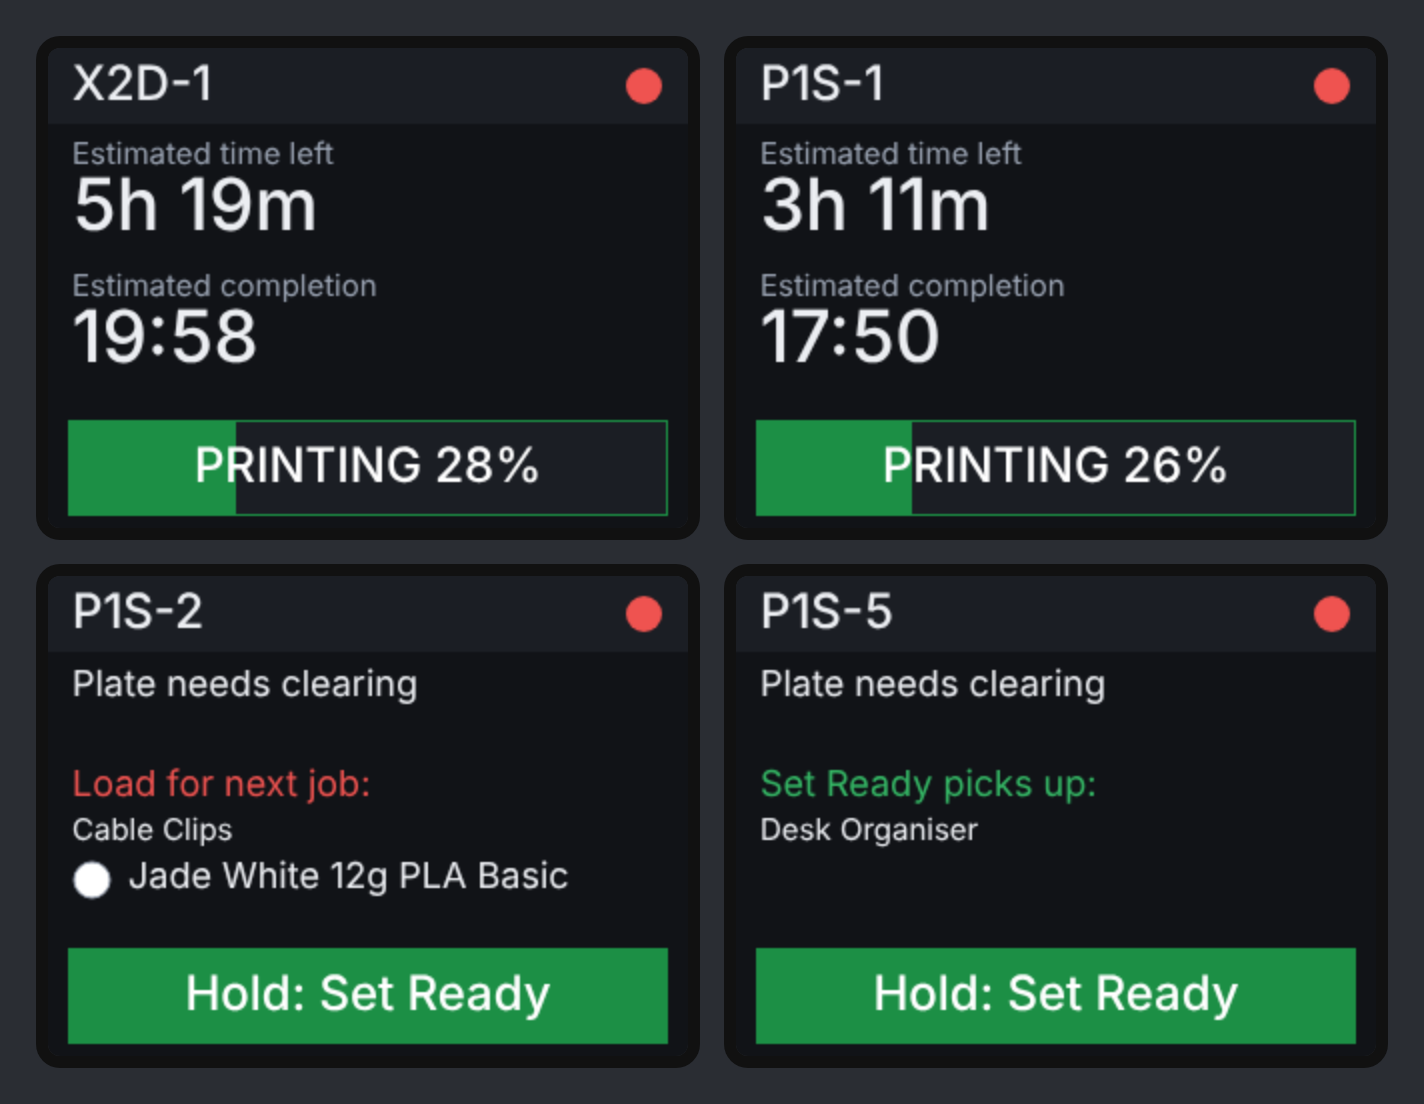
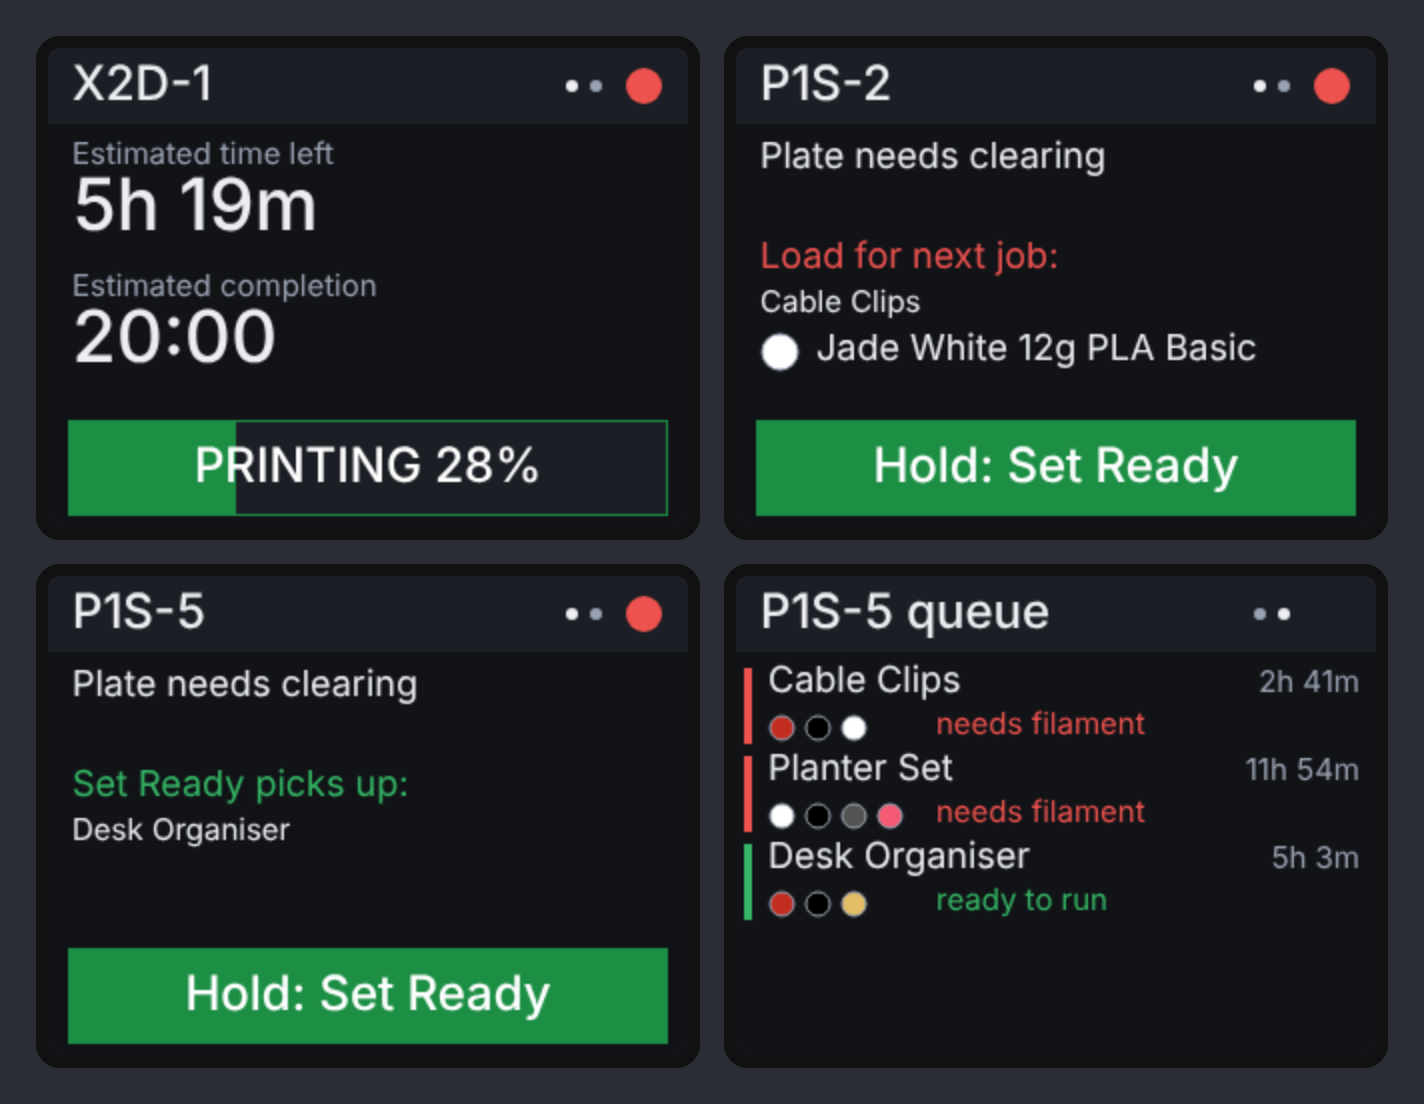
Display: a second page listing the jobs waiting for the printer
Swipe sideways, or tap the top bar, to switch to a queue page: up to four
jobs this printer could take, in Watchtower's order, each with its print
time, colours and whether the loaded filament covers it. It returns to the
printer page after 30 seconds. The summary gains queue and more fields.

diff --git a/server.py b/server.py
@@ -997,7 +997,8 @@ def display_summary(name):
     """Everything a printer's display shows, already worded and trimmed for a small screen."""
     out = {"title": name, "state": "unknown", "status": "", "sub": "", "head": "", "good": False,
            "job": "", "fil": [], "warn": "", "button": "",
-           "pct": -1, "left": "", "done": ""}             # progress bar and big times
+           "pct": -1, "left": "", "done": "",             # progress bar and big times
+           "queue": [], "more": 0}                        # second page: waiting jobs
     printers, err = printers_cached()
     p = next((x for x in printers if x.get("name") == name), None)
     if p is None:
@@ -1020,11 +1021,21 @@ def display_summary(name):
         out["button"] = "SET READY"
 
     q = queue_data()
+    # The jobs this printer could take, in Watchtower's order: the display's second page.
+    mine = sorted((j for j in q.get("jobs") or []
+                   if name in (j.get("missing_by") or {})
+                   and (not j.get("printer") or j["printer"] == name)),
+                  key=lambda j: (j.get("order") or 0, j.get("created") or ""))
+    for j in mine[:4]:
+        mins = j.get("minutes")
+        out["queue"].append({
+            "n": j["name"],
+            "t": ("%dh %dm" % divmod(mins, 60)) if isinstance(mins, int) and mins >= 60
+                 else ("%dm" % mins if isinstance(mins, int) else ""),
+            "ok": not j["missing_by"][name],                 # this printer has every filament
+            "c": [(f.get("color") or "").lstrip("#") for f in j["filaments"]][:4]})
+    out["more"] = max(0, len(mine) - 4)
     if state in ("plate", "ready"):
-        mine = sorted((j for j in q.get("jobs") or []
-                       if name in (j.get("missing_by") or {})
-                       and (not j.get("printer") or j["printer"] == name)),
-                      key=lambda j: (j.get("order") or 0, j.get("created") or ""))   # Watchtower's order
         runnable = [j for j in mine if not j["missing_by"][name]]
         if runnable:
             j = runnable[0]
@@ -1050,6 +1061,8 @@ def display_summary(name):
         out[key] = plain(out[key])
     for f in out["fil"]:
         f["t"] = plain(f["t"])
+    for row in out["queue"]:
+        row["n"] = plain(row["n"])
     return out
 
 

diff --git a/display/README.md b/display/README.md
@@ -3,7 +3,7 @@
 A small touch screen for the front of one printer. It shows the printer's state, what
 filament to load for the next waiting job, and a **Set Ready** button.
 
-![Four example screens: printing with time left and a progress bar, printing with filament to load, load a filament before Set Ready, and Set Ready picks up a job](../docs/display-preview.png)
+![Four example screens: printing with time left and a progress bar, load a filament before Set Ready, Set Ready picks up a job, and the queue page](../docs/display-preview.png)
 
 *Mock-up of the layout with sample data.*
 
@@ -102,6 +102,14 @@ only making one.
   - An amber "Low:" line when the spool has less than the job needs.
 - **Hold: Set Ready:** appears when the plate is waiting to be cleared. Hold it for a
   second; it turns brighter while held, then sends. A brush against the screen does nothing.
+
+### The queue page
+
+Swipe left or right across the screen, or tap the top bar, to see the jobs waiting for
+this printer: up to four, in Watchtower's order. Each shows its name, print time, the
+colours it needs, and a green "ready to run" or red "needs filament" depending on what
+this printer has loaded. Swipe or tap again to go back; it returns by itself after 30
+seconds. Two small dots in the top bar show which page you are on.
 
 It asks the server every 10 seconds.
 
